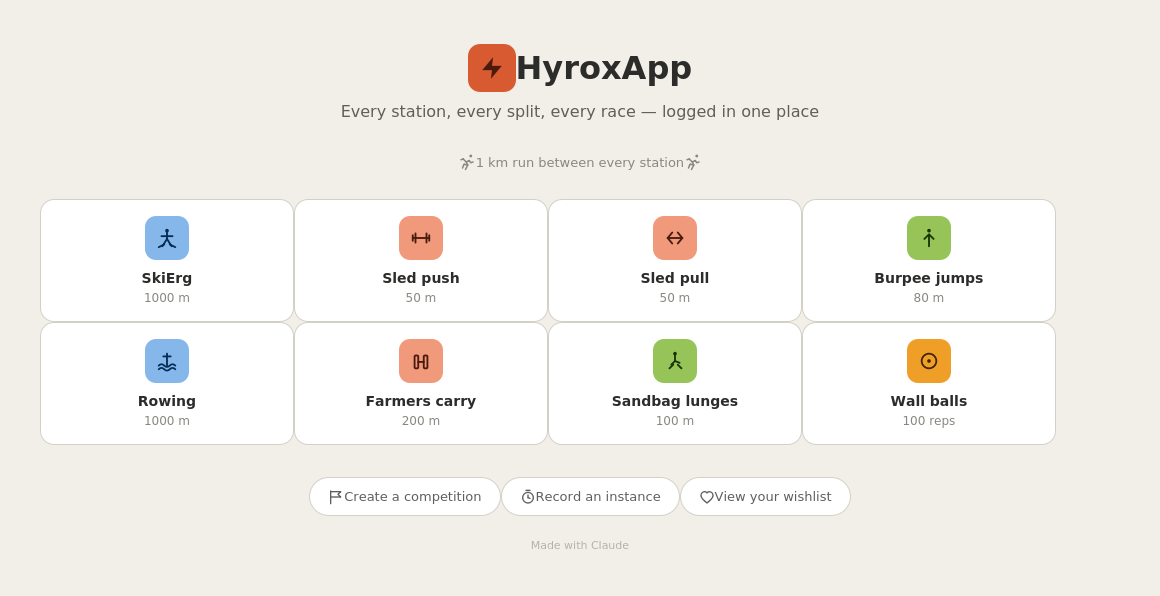
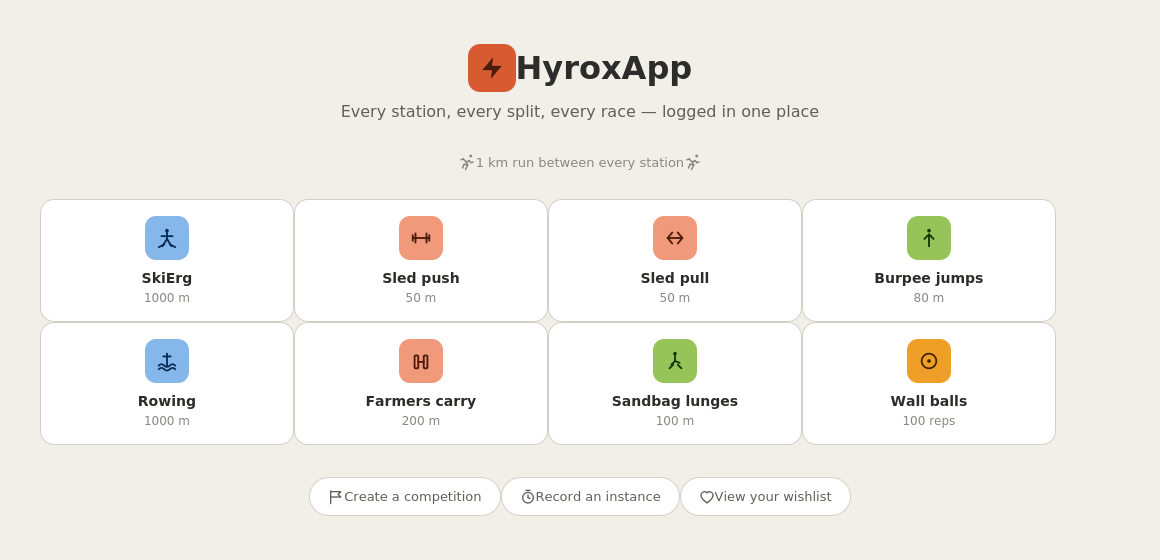
Removed watermark from image + added comment on image productions

diff --git a/src/main/ui/HyroxAppGUI.java b/src/main/ui/HyroxAppGUI.java
@@ -105,6 +105,7 @@ public class HyroxAppGUI extends JFrame implements ActionListener {
 
         addMenuItems();
 
+        // This image was made using caluade.ai
         image = new ImageIcon("./data/HyroxApp.png");
         imageLabel = new JLabel(image);
         panel.add(imageLabel);
